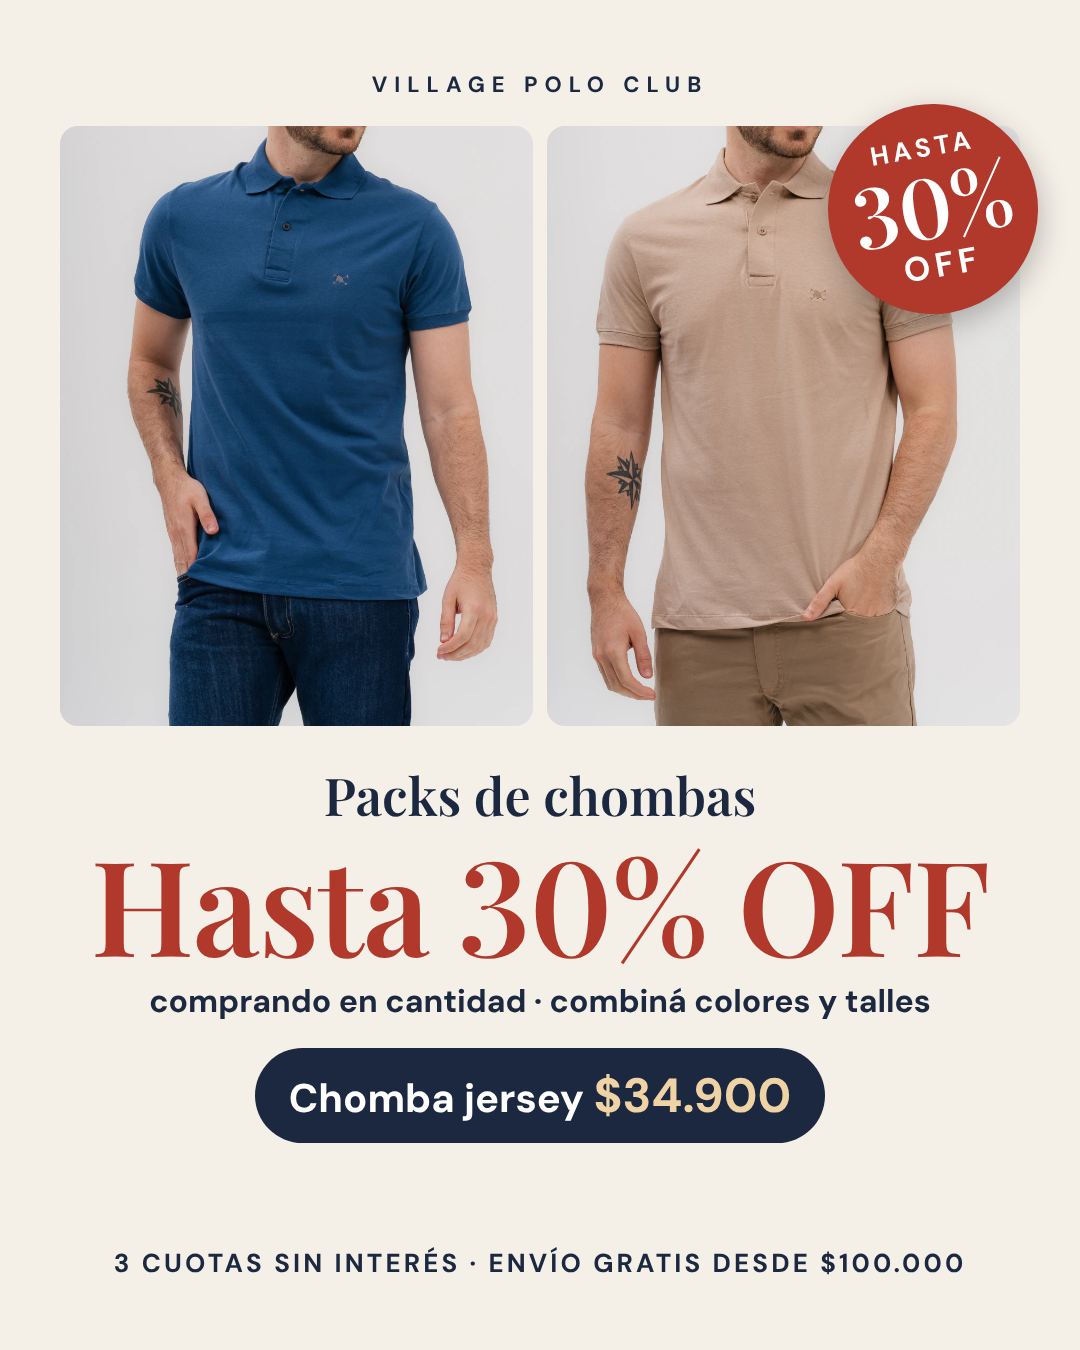
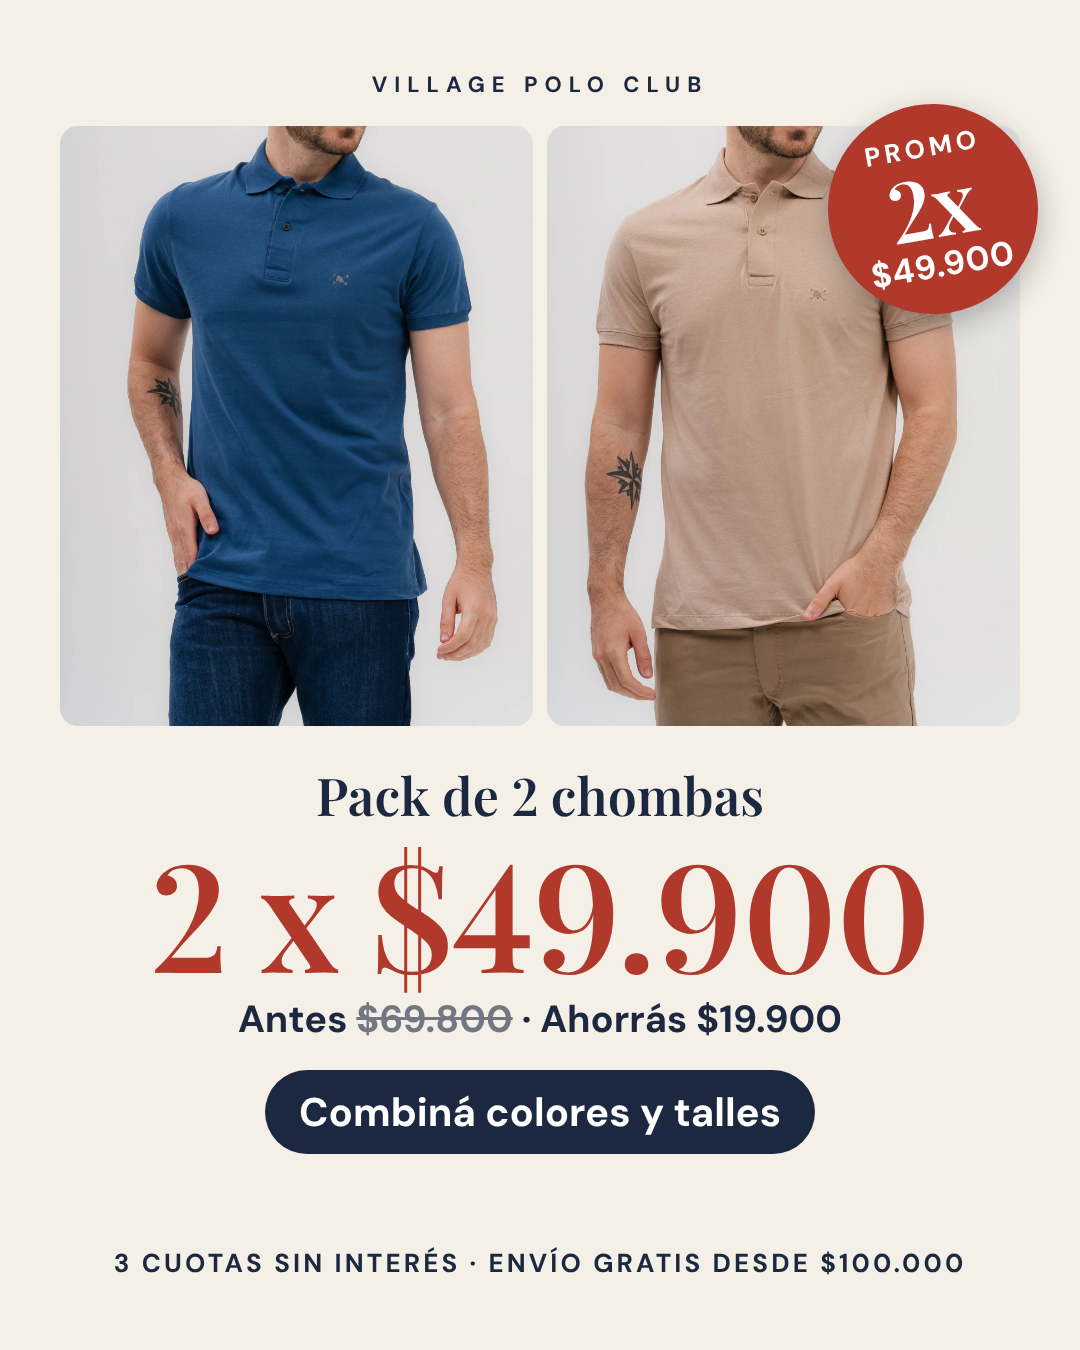
Village: Packs de chombas con la promo real 2 x $49.900
Claude-Session: https://claude.ai/code/session_01BwB1NJ45564dBMrvfqcTE9

Changed region(s): [[0.0917, 0.56, 0.9167, 0.8711], [0.7944, 0.0933, 0.9472, 0.2178]]

diff --git a/village-polo-club/placas/testeo-24-11/fuente/gen.py b/village-polo-club/placas/testeo-24-11/fuente/gen.py
@@ -99,20 +99,20 @@ def p1(fmt):
 <div style="position:absolute;top:{top+56}px;left:60px;right:60px;height:{gh}px;display:grid;grid-template-columns:1fr 1fr;gap:14px">
  <div class="box"><img class="ph" src="chomba-jersey-azul-1.webp" style="object-view-box:{crop}"></div>
  <div class="box"><img class="ph" src="chomba-jersey-beige-1.webp" style="object-view-box:{crop}"></div>
- <div class="badge"><span class="b1">HASTA</span><span class="b2">30%</span><span class="b3">OFF</span></div>
+ <div class="badge"><span class="b1">PROMO</span><span class="b2">2x</span><span class="b3">$49.900</span></div>
 </div>
 <div style="position:absolute;top:{top+56+gh+34}px;left:60px;right:60px;text-align:center">
- <div class="ey2">Packs de chombas</div>
- <h1 style="font-size:132px;color:#b0392b;white-space:nowrap">Hasta 30% OFF</h1>
- <div class="sub2">comprando en cantidad · combiná colores y talles</div>
- <div class="price">Chomba jersey <b>$34.900</b></div>
+ <div class="ey2">Pack de 2 chombas</div>
+ <h1 style="font-size:150px;color:#b0392b;white-space:nowrap">2 x $49.900</h1>
+ <div class="sub2">Antes <s>$69.800</s> · Ahorrás $19.900</div>
+ <div class="price">Combiná colores y talles</div>
 </div>
 <div style="position:absolute;bottom:{top}px;left:0;right:0" class="ben">{BEN}</div>"""
     extra=""".box{border-radius:18px;overflow:hidden}
 .badge{position:absolute;right:-18px;top:-22px;width:210px;height:210px;border-radius:50%;background:#b0392b;color:#fff;display:flex;flex-direction:column;align-items:center;justify-content:center;transform:rotate(-10deg);box-shadow:0 10px 30px rgba(0,0,0,.25)}
-.b1{font-size:26px;font-weight:700;letter-spacing:.16em}.b2{font-family:'PF';font-weight:600;font-size:84px;line-height:.95}.b3{font-size:34px;font-weight:700;letter-spacing:.14em}
+.b1{font-size:26px;font-weight:700;letter-spacing:.16em}.b2{font-family:'PF';font-weight:600;font-size:84px;line-height:.95}.b3{font-size:34px;font-weight:700;letter-spacing:.02em}
 .ey2{font-family:'PF';font-weight:600;font-size:52px;color:#1c2840;margin-bottom:6px}
-.sub2{font-size:32px;font-weight:700;color:#1c2840;margin-top:10px}
+.sub2{font-size:38px;font-weight:700;color:#1c2840;margin-top:6px}.sub2 s{opacity:.6}
 .price{display:inline-block;margin-top:26px;background:#1c2840;color:#fff;font-size:40px;font-weight:700;padding:16px 34px;border-radius:60px}.price b{color:#f0d3a5;font-size:48px}"""
     return page(W,H,body,extra)
 
